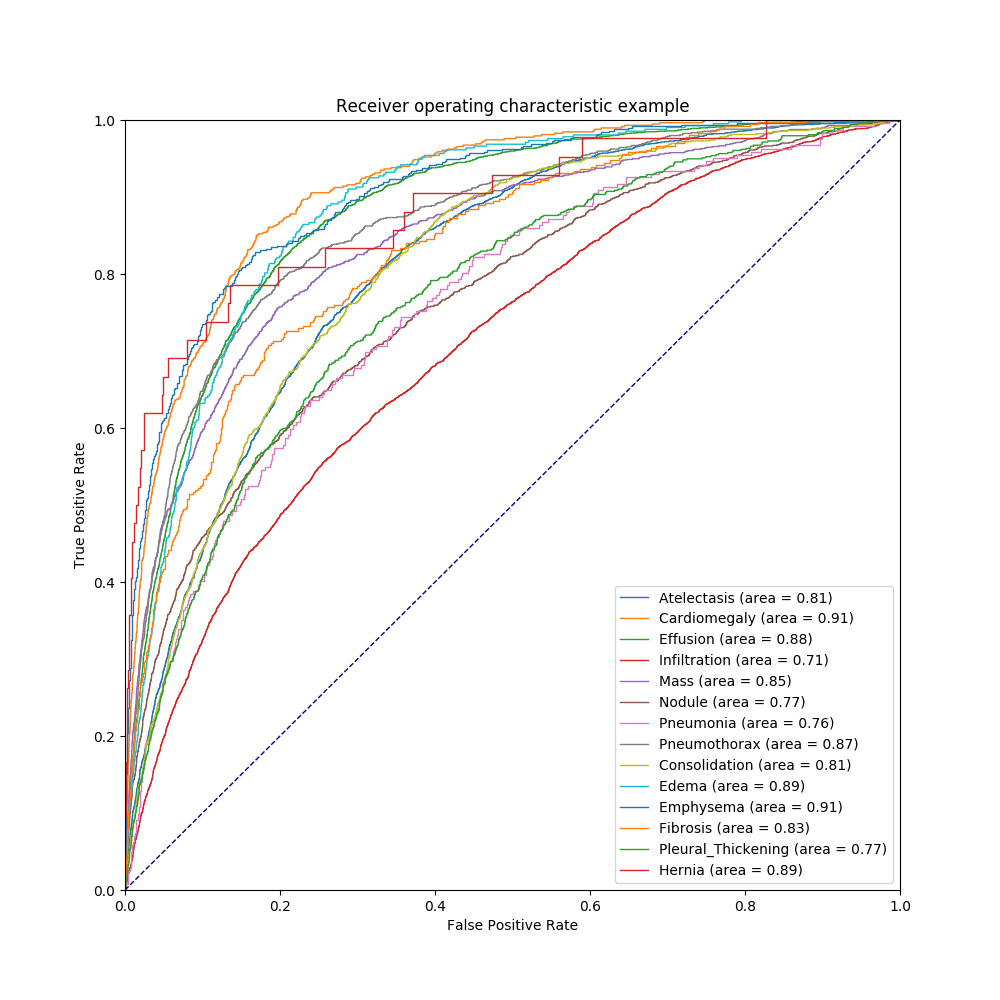
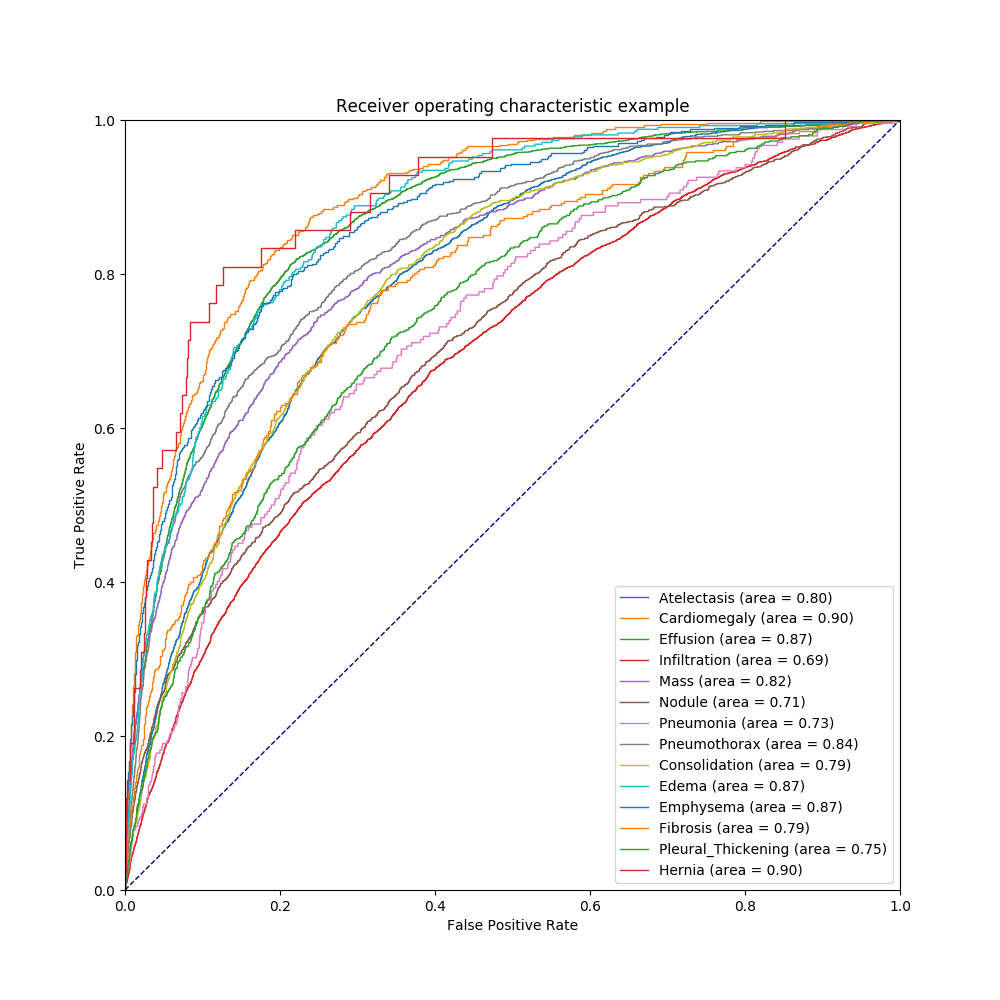
Added random cropping

Changed region(s): [[0.124, 0.124, 0.868, 0.868], [0.837, 0.744, 0.868, 0.775], [0.806, 0.651, 0.837, 0.682]]

diff --git a/densenet_new.py b/densenet_new.py
@@ -2,51 +2,63 @@ import tensorflow as tf
 
 def _conv(x, num_filters, kernel_size, stride, in_training, dropout_rate, name):
     with tf.variable_scope(name):
-        x = tf.layers.batch_normalization(x, name="batch_norm", training=in_training)
+        x = tf.layers.batch_normalization(
+            x, name="batch_norm", training=in_training)
         x = tf.nn.relu(x, name="relu")
-        x = tf.layers.conv2d(x, num_filters, kernel_size, stride, padding="same", name="conv")
+        x = tf.layers.conv2d(x, num_filters, kernel_size, stride, padding="same",
+                             name="conv", use_bias=False, kernel_initializer=tf.contrib.layers.xavier_initializer())
 
         if dropout_rate is not None:
             x = tf.layers.dropout(x, dropout_rate, training=in_training)
 
         return x
 
+
 def _conv_block(x, num_filters, kernel_size, stride, in_training, dropout_rate, name):
     with tf.variable_scope(name):
         y = x
-        y = _conv(y, 4 * num_filters, 1, 1, in_training, dropout_rate, "conv_1")
-        y = _conv(y,     num_filters, 3, 1, in_training, dropout_rate, "conv_2")
+        y = _conv(y, 4 * num_filters, 1, 1,
+                  in_training, dropout_rate, "conv_1")
+        y = _conv(y,     num_filters, 3, 1,
+                  in_training, dropout_rate, "conv_2")
         y = tf.concat([x, y], axis=3)
         return y
+
 
 def _dense_block(x, num_layers, num_filters, growth_rate, in_training, dropout_rate, name):
     with tf.variable_scope(name):
         for i in range(num_layers):
-            x = _conv_block(x, growth_rate, 1, 1, in_training, dropout_rate, "conv_block" + str(i))
+            x = _conv_block(x, growth_rate, 1, 1, in_training,
+                            dropout_rate, "conv_block" + str(i))
             num_filters += growth_rate
         return x, num_filters
+
 
 def _transition_block(x, num_filters, compression, in_training, dropout_rate, name):
     with tf.variable_scope(name):
         num_filters = num_filters * compression
         x = _conv(x, num_filters, 1, 1, in_training, dropout_rate, "conv")
-        x = tf.layers.average_pooling2d(x, 2, 2, padding="same", name="avg_pool")
+        x = tf.layers.average_pooling2d(
+            x, 2, 2, padding="same", name="avg_pool")
         return x, num_filters
 
+
 def densenet121(inputs, num_classes,
-    num_filters = 64,
-    growth_rate = 32,
-    compression = 0.5,
-    dropout_rate = None,
-    in_training = True,
-    name="densenet121"):
+                num_filters=64,
+                growth_rate=32,
+                compression=0.5,
+                dropout_rate=None,
+                in_training=True,
+                name="densenet121"):
 
     with tf.variable_scope(name):
         net = inputs
-        
+
         # Initial convolution
-        net = tf.layers.conv2d(net, num_filters, 7, 2, padding="same", name="initial_conv")
-        net = tf.layers.batch_normalization(net, name="batch_norm", training=in_training)
+        net = tf.layers.conv2d(net, num_filters, 7, 2, padding="same", name="initial_conv",
+                               use_bias=False, kernel_initializer=tf.contrib.layers.xavier_initializer())
+        net = tf.layers.batch_normalization(
+            net, name="batch_norm", training=in_training)
         net = tf.nn.relu(net, name="relu")
 
         # Max Pooling
@@ -55,16 +67,23 @@ def densenet121(inputs, num_classes,
         # Dense blocks
         # 6 -> 12 -> 24 -> 16
 
-        net, num_filters = _dense_block(net, 6, num_filters, growth_rate, in_training, dropout_rate, "dense_block1")
-        net, num_filters = _transition_block(net, num_filters, compression, in_training, dropout_rate, "transition_block1")
+        net, num_filters = _dense_block(
+            net, 6, num_filters, growth_rate, in_training, dropout_rate, "dense_block1")
+        net, num_filters = _transition_block(
+            net, num_filters, compression, in_training, dropout_rate, "transition_block1")
 
-        net, num_filters = _dense_block(net, 12, num_filters, growth_rate, in_training, dropout_rate, "dense_block2")
-        net, num_filters = _transition_block(net, num_filters, compression, in_training, dropout_rate, "transition_block2")
+        net, num_filters = _dense_block(
+            net, 12, num_filters, growth_rate, in_training, dropout_rate, "dense_block2")
+        net, num_filters = _transition_block(
+            net, num_filters, compression, in_training, dropout_rate, "transition_block2")
 
-        net, num_filters = _dense_block(net, 24, num_filters, growth_rate, in_training, dropout_rate, "dense_block3")
-        net, num_filters = _transition_block(net, num_filters, compression, in_training, dropout_rate, "transition_block3")
+        net, num_filters = _dense_block(
+            net, 24, num_filters, growth_rate, in_training, dropout_rate, "dense_block3")
+        net, num_filters = _transition_block(
+            net, num_filters, compression, in_training, dropout_rate, "transition_block3")
 
-        net, num_filters = _dense_block(net, 16, num_filters, growth_rate, in_training, dropout_rate, "dense_block4")
+        net, num_filters = _dense_block(
+            net, 16, num_filters, growth_rate, in_training, dropout_rate, "dense_block4")
 
         net = tf.layers.batch_normalization(net)
         net = tf.nn.relu(net)
@@ -73,7 +92,7 @@ def densenet121(inputs, num_classes,
         net = tf.reduce_mean(net, [1, 2], name="global_avg_pool")
 
         # TODO: Remove this?
-        net = tf.contrib.layers.flatten(net)
+        # net = tf.contrib.layers.flatten(net)
         # TODO: Activation function?
         net = tf.layers.dense(net, num_classes)
 

diff --git a/nihcc_input.py b/nihcc_input.py
@@ -22,7 +22,13 @@ def _read_image(filepath, label):
     # TODO: pytorch has a RandomResizedCrop function. Look into that?
     # TODO: It does seem that tensorflow acts weird on resizing images
     # https://hackernoon.com/how-tensorflows-tf-image-resize-stole-60-days-of-my-life-aba5eb093f35
-    image_decoded = tf.image.resize_images(image_decoded, [224, 224])
+
+    image_size = [256, 256]
+    image_decoded = tf.image.resize_images(image_decoded, image_size)
+    
+    crop_size = [224, 224, 3]
+    image_decoded = tf.random_crop(image_decoded, crop_size)
+
     image_decoded = tf.image.per_image_standardization(image_decoded)
     image_decoded = tf.image.random_flip_left_right(image_decoded)
 
@@ -90,9 +96,6 @@ def create_dataset(mode):
     labels= tf.convert_to_tensor(labels)
 
     ds = tf.contrib.data.Dataset.from_tensor_slices((images, labels))
-
-    # if mode == tf.estimator.ModeKeys.TRAIN:
-    #    ds = ds.repeat(2)
 
     ds = ds.shuffle(100000)
     ds = ds.map(_read_image, num_threads=20, output_buffer_size=50)

diff --git a/nihcc_train.py b/nihcc_train.py
@@ -39,6 +39,11 @@ def main():
     train_for_n_epochs = 100
     current_epoch = 0
 
+    # From the docs:
+    # Overfitting: In order to avoid overfitting, it is recommended to set up the training input_fn to shuffle the training data properly. 
+    # It is also recommended to train the model a little longer, say multiple epochs, before performing evaluation, as the input pipeline starts from scratch for each training.
+    # It is particularly important for local training and evaluation.
+
     # while current_epoch < train_for_n_epochs:
     while True:
         print("Training for 1 epoch...")

diff --git a/nihcc_plot.py b/nihcc_plot.py
@@ -55,7 +55,7 @@ def plot_roc():
         model = nihcc_model.model_fn(features, labels, tf.estimator.ModeKeys.PREDICT)
         predictions = model.predictions
 
-        checkpoint = "../history/dropout_0/model.ckpt-19566"
+        checkpoint = "../history/new_input/model.ckpt-39241"
         print("Plotting checkpoint {}".format(checkpoint))
 
         saver = tf.train.Saver()

diff --git a/nihcc_model.py b/nihcc_model.py
@@ -60,7 +60,7 @@ def model_fn(
     num_gpu = 2
 
     global_step = tf.train.get_global_step()
-    optimizer = tf.train.AdamOptimizer(learning_rate=0.001, beta1=0.9, beta2=0.999)
+    optimizer = tf.train.AdamOptimizer(learning_rate=0.001, beta1=0.9, beta2=0.999, )
 
     image_split = tf.split(image, num_gpu)
     labels_split = tf.split(labels, num_gpu)
